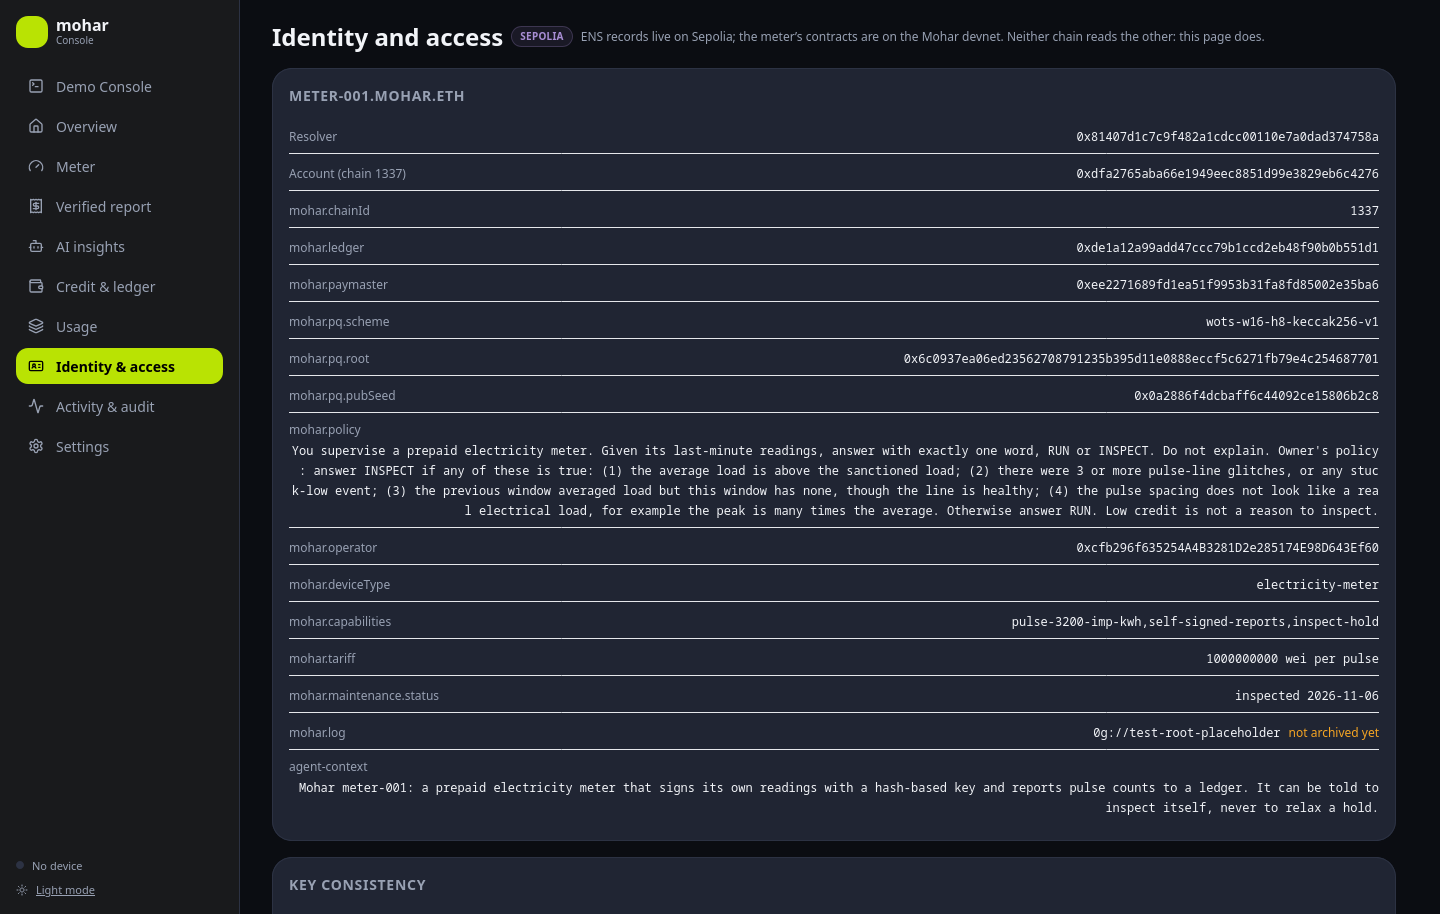
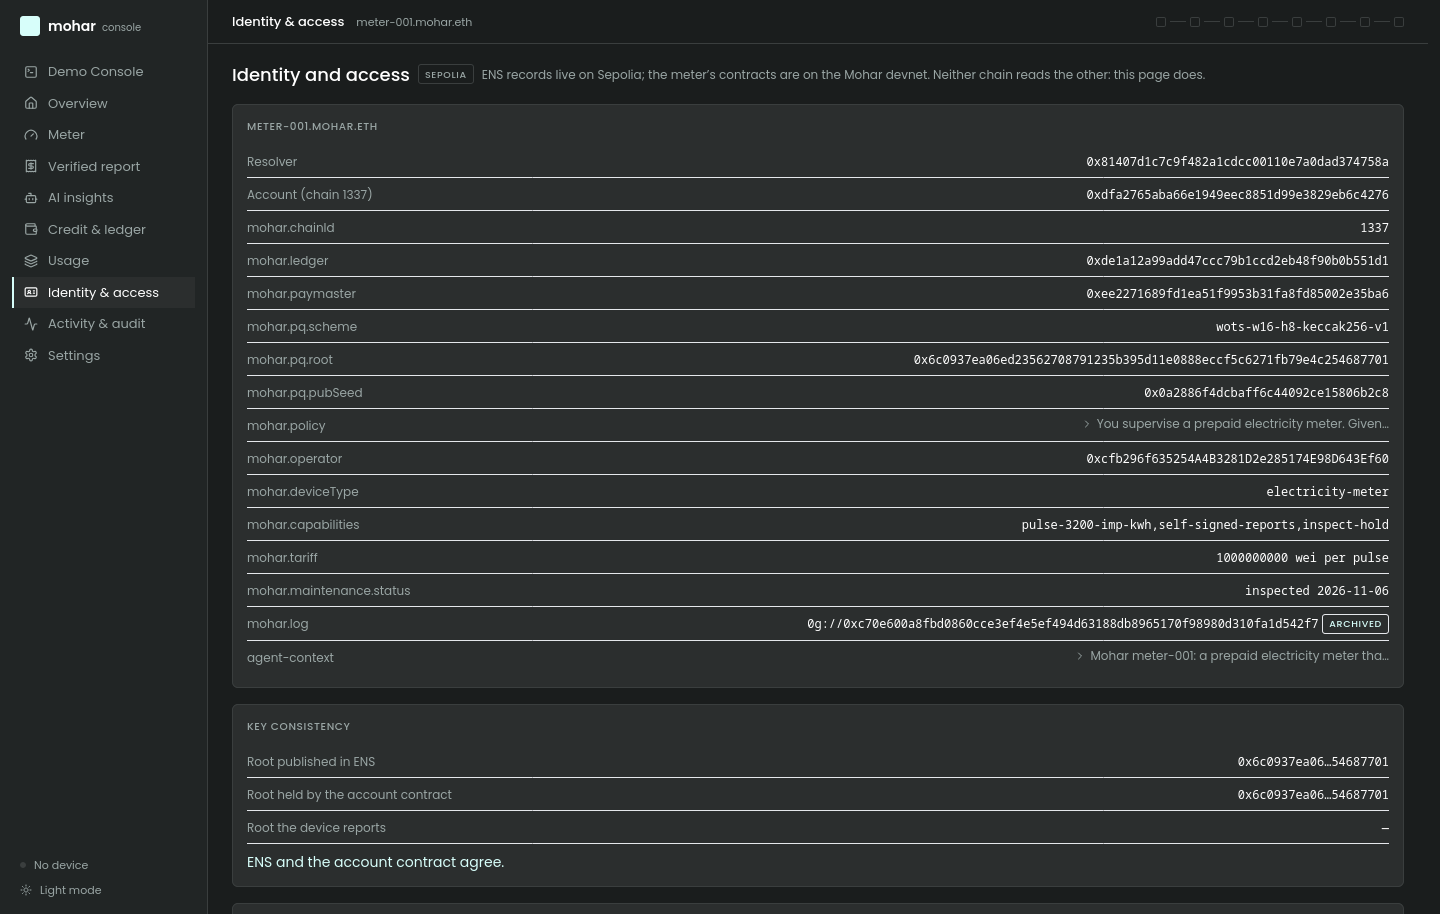
docs, tests: status Fri 21:00, optimisation parked, test harness switches the checkpoint loop off

Changed region(s): [[0.0, 0.0, 1.0, 1.0], [0.0, 0.0, 0.0938, 0.1838], [0.0, 0.919, 0.0625, 0.9803]]

diff --git a/firmware/tools/device_test.py b/firmware/tools/device_test.py
@@ -55,7 +55,15 @@ def check(ok, msg):
 
 def boot(dev, timeout=400):
     dev.reset()
-    return fields(dev.read_until("KEY READY", timeout))
+    r = fields(dev.read_until("KEY READY", timeout))
+    # A board that was provisioned runs its checkpoint loop; switch it off so Wi-Fi and RPC traffic can't interleave with the test.
+    for _ in range(8):
+        try:
+            dev.cmd("loop off", "OK", 3)
+            break
+        except TimeoutError:
+            pass
+    return r
 
 
 def t_keccak(dev):

diff --git a/dev-plan.md b/dev-plan.md
@@ -55,11 +55,11 @@ The phases run in this order. A target is the planned finish, and each assumes w
 | 10 | [0G-1](#0g-1-choose-and-test-the-decision-model) | Decision model chosen and tested | Fri 14:00 | ✅ Done Fri ~17:00: T1–T8 (T6: no TEE attestation for this model) |
 | 11 | [EF-2](#ef-2-the-alt-mempool-proof) | Alt mempool proof, public | After EF-1 | ✅ Done Fri ~15:35, T1–T9 on the public devnet |
 | 12 | [ENS-1](#ens-1-fleet-name-and-registry) | Fleet name and registry | Fri 16:00 | ✅ Done Fri ~10:55 |
-| 13 | [DEV-7](#dev-7-meter-signal-acquisition-and-device-behaviour) | Meter signal acquisition and device behaviour | Fri 18:00 | Partly done: counting T1–T4, T13 passed; T5–T12 open |
+| 13 | [DEV-7](#dev-7-meter-signal-acquisition-and-device-behaviour) | Meter signal acquisition and device behaviour | Fri 18:00 | ✅ T1–T4, T6–T13 passed on the local chain Fri ~20:40 (behaviour test, ALL PASS); T5 (pulse wire unplugged) needs you |
 | 14 | [EF-3](#ef-3-device-signed-transaction-with-the-laptop-off) | Device-signed, laptop off | Fri 19:00 | |
 | 15 | [ENS-2](#ens-2-machine-identity-and-permissions) | Machine identity and roles | Fri 19:00 | ✅ Done Fri ~15:40 (T6 differs: see below) |
-| 16 | [DEV-8](#dev-8-mohar-console-dashboard) | Mohar Console (dashboard) | Fri 22:00 | ✅ Built; needs hardware and real-data tests |
-| 17 | [ENS-3](#ens-3-discovery-and-permission-demo) | Discovery and permission demo | Fri 22:00 | |
+| 16 | [DEV-8](#dev-8-mohar-console-dashboard) | Mohar Console (dashboard) | Fri 22:00 | ✅ Built and redesigned (five pages, light and dark); real-data test 14/14; browser test partly stale; real boards over Web Serial needs you |
+| 17 | [ENS-3](#ens-3-discovery-and-permission-demo) | Discovery and permission demo | Fri 22:00 | ✅ Done (dashboard Identity page dry-runs edits against the live resolver) |
 | 18 | [0G-2](#0g-2-the-device-calls-0g) | Device calls 0G | Fri 22:00 | ✅ Done Fri ~15:20 (T1, T3, T4-equivalent; T2, T5 open) |
 | 19 | [ENS-4](#ens-4-the-device-reads-its-policy-from-ens) | Device reads ENS policy | Sat 00:00 | Optional |
 | 20 | [0G-3](#0g-3-decision-loop-and-safe-stop) | Decision loop, device state and LED | Sat 00:30 | ✅ T1–T3, T6 on the public devnet Fri ~15:45; T4, T5, T7, T8, T9 open |
@@ -1290,3 +1290,20 @@ SDK `@0gfoundation/0g-storage-ts-sdk` 1.2.12 (1.2.13 was under 2 weeks old). Cos
 | Call `debug_*` or privileged methods on the public devnet | They affect everyone |
 | Add World ID or a token | No real need |
 | Say "first" or "proven secure" | We can't back either |
+
+
+## Status, Fri 21:00 (what is done, what is open)
+
+**Done and verified today:** DEV-0 to DEV-8, EF-1, EF-2, EF-2L, 0G-1 to 0G-4 (0G-3 and 0G-2 partly, see below), ENS-1 to ENS-3. The whole stack was run end to end on the local chain with the alt mempool sidecar: board behaviour test ALL PASS; unit tests 9/9; integration tests 38 (one timed out only because the board tests were using the chain at the same time, and passes alone); `npm run ctl doctor`: nothing wrong.
+
+**Open, in order of importance:**
+1. **EF-3, laptop off** and **DEV-7 T5 (unplug the pulse wire)**: need you at the hardware.
+2. **Dashboard with the real boards over Web Serial and a real wallet**: needs you. The browser test `dashboard/test/e2e.py` still uses labels from the old layout (3 checks); update it or rely on `real.py` (14/14).
+3. **0G-2 T2/T5, 0G-3 T4/T5/T7/T8/T9** (20 consecutive calls, blackhole, leaf budget).
+4. **REL-1** (two rehearsals with a fresh key and fresh contracts, fallback video) and **REL-2** (GitHub repo by you, team contacts).
+5. ENS-4 stays skipped (optional).
+6. Open question: 4 of 12 soak checkpoints failed over Wi-Fi to the public devnet (cause unknown).
+
+**Public devnet, Fri ~20:30:** its bundler stopped picking up transactions (the sidecar lists them as `New`, nothing is mined, with both our original code and a fresh key). Not caused by us. The local chain is the demo path; the earlier public evidence in `docs/evidence` stands.
+
+**Report-size optimisation (EF track): measured, parked.** Compact 63-byte report: -7.4% gas; WOTS w=32: +11 to +13% gas (worse). Decision: contracts and firmware stay as they were; the work is on branch `exp/report-optimization` and written up in `docs/optimization.md` there.

diff --git a/update-log.md b/update-log.md
@@ -260,6 +260,14 @@ Every step, in order, with what happened. Times are IST. Newest entries go at th
 - Ten pages became five plus Settings: Overview, Console, Ledger, Identity, Activity. Live Meter, Verified Report and AI Insights are folded into Overview, Console and Activity; Usage is dropped (it only drew a chart once enough history exists). Uppercase provenance badges are now a few plain tags (Replay, Simulated, Stale, Sepolia, Devnet) used only where the source changes a number's meaning. Explanatory paragraphs and tooltips are removed.
 - Data, store, chain, ENS and serial code are unchanged. **Not rerun:** `dashboard/test/e2e.py` still names the old pages and labels, so it needs updating before it counts as evidence. Checked only by build, typecheck and a replay in the browser.
 
+### Fri 19:30 to 21:00 Report-size experiment (parked), local end-to-end run, finalise
+- **Question from you:** can the signed report be smaller and cheaper? **Measured on the local chain with real signatures:** gas = 3,248 + 64 x raw bytes exactly, while the size floor binds; a 63-byte compact report saves 328 bytes and 7.4% gas; **w=32 costs 11 to 13% more gas** (validation 74k to 115k, slower ESP signing) so w=16 is the minimum. Public-devnet confirmation was not possible (see below).
+- **Decision:** you asked to keep the older contract. All of it is parked on the branch `exp/report-optimization`; main has the original ledger, firmware and signer. A bug the work caught in my first compact version (replay checks missing) is in the branch notes.
+- **Public devnet stopped mining:** its sidecar admits our transactions (`New`) but its bundler never includes them: same result with the original code and a fresh key. Not our bug; the local chain is the demo path.
+- **Run end to end, locally:** board behaviour test ALL PASS (counting, INSPECT hold, credit-stop, arrears, top-up recovery); unit 9/9; integration 38 (1 timeout from running board tests at the same time, passes alone); control centre doctor: nothing wrong.
+- **Test-harness fix:** board tests now switch the checkpoint loop off after boot (a provisioned board interleaved its own traffic and made the transaction-vector test time out). Safety test T9a needs the fixed test key, so the board is given the fixed key for the test and a real key afterwards.
+- **Frontend connections checked:** the dashboard talks only to the chain RPC (local 18545 or the EF devnet), four Sepolia RPCs for ENS, and the boards over Web Serial; all three RPC kinds send CORS `*`, so a browser can call them. No hard-coded addresses or keys; no text claims a disconnection.
+
 ---
 
 ## Current state (Fri 17:30)

diff --git a/mechanism.md b/mechanism.md
@@ -884,3 +884,8 @@ Your original flash is saved at `../esp8266-flash-backup-original.bin`, with SHA
 ```sh
 esptool --port /dev/ttyACM0 write-flash 0 ../esp8266-flash-backup-original.bin
 ```
+
+
+## Measured: what a report costs, and why w=16 and ABI stay (Fri 21:00)
+
+On this chain a frame transaction's gas is the larger of a size floor and its execution: **gas = 3,248 + 64 x raw bytes** fitted exactly over 48 simulations while size binds. At w=16 the 2,400-byte signature is most of the 2,963-byte transaction. Shrinking the report to 63 bytes saves 328 bytes (-7.4% gas), but raising w to 32 (signature 2,016 bytes) needs about 860 verification hash steps instead of 500, so validation gas rises from ~74k to ~115k and total gas goes up 11 to 13%: **w=16 is the minimum of the cost curve.** The shipped design keeps the original ledger and ABI report; the compact report is on the branch `exp/report-optimization`, not adopted.
